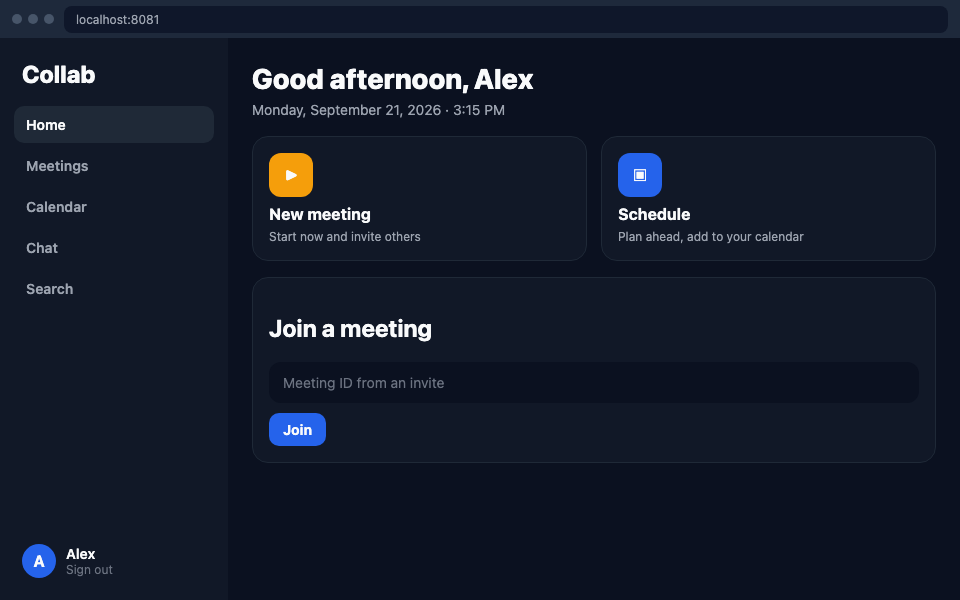
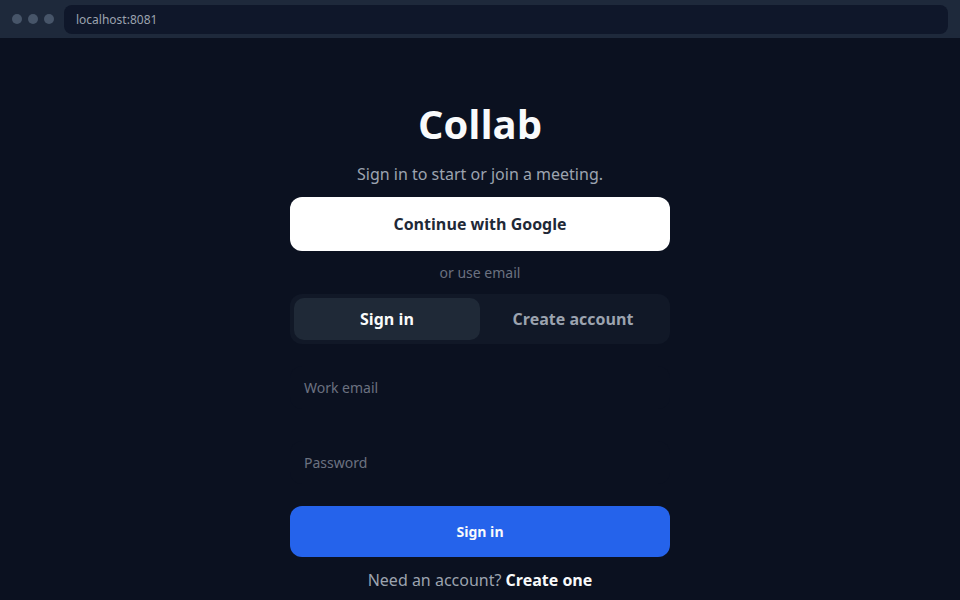
docs: show sign-in in the runtime preview
The loop now starts on the screen you get after starting the app,
including Continue with Google, then the home, schedule, and call.

diff --git a/README.md b/README.md
@@ -6,7 +6,7 @@
   <img src="./assets/demo.gif" alt="Collab application runtime demo" width="800" />
 </p>
 
-_Collab runtime: home dashboard, scheduling meetings with attendee auto-invitations, meeting room, and team chat._
+_Collab runtime: sign in (Continue with Google or email), home dashboard, scheduling with attendee invites, the meeting room, and team chat._
 
 > Cross-platform video conferencing built with React Native, Expo, WebRTC, and a Node.js signaling server. One codebase ships to **macOS, Windows, iOS, and Android**.
 

diff --git a/assets/README.md b/assets/README.md
@@ -3,4 +3,4 @@
 This directory holds the app's visual assets:
 
 - `icon.png` — application icon used by Expo (iOS, Android adaptive icon, web favicon) and the desktop packagers.
-- `demo.gif` — short loop of the home dashboard and a meeting, generated by `scripts/render-demo-gif.mjs`.
+- `demo.gif` — short loop of sign-in, the home dashboard, scheduling, and a meeting, generated by `scripts/render-demo-gif.mjs`.
